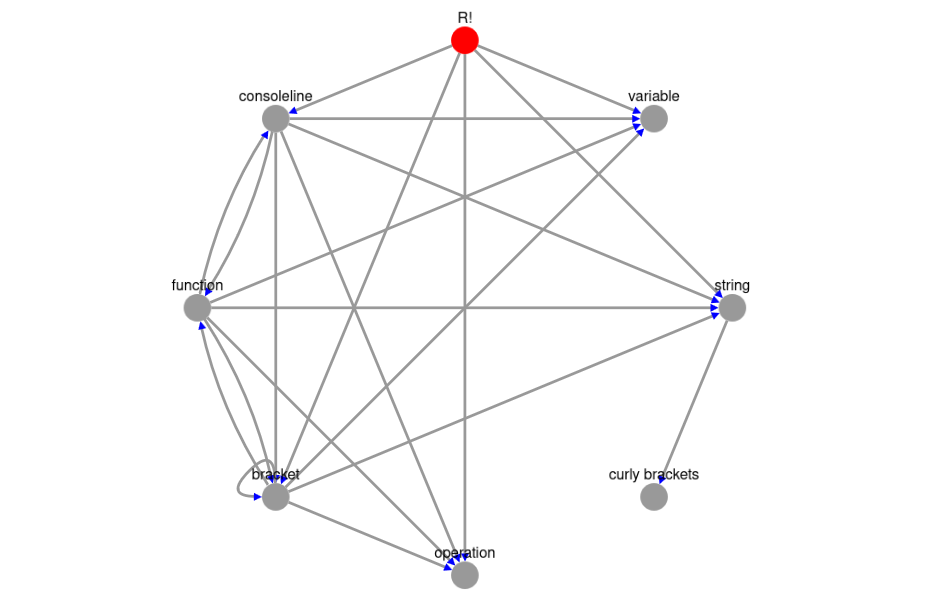
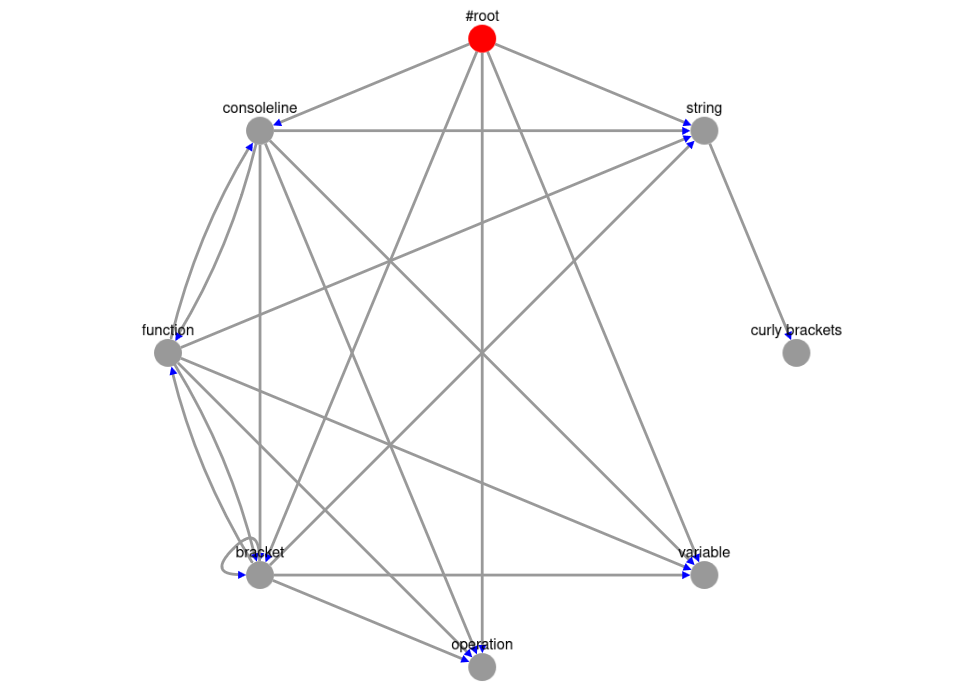
Initial commit

diff --git a/src/syntax_parser_skeleton/example.py b/src/syntax_parser_skeleton/example.py
@@ -4,7 +4,7 @@ import baseobjekts
 from derivatives import simpleregex
 import visualisation
 
-root = baseobjekts.Root("R!")
+root = baseobjekts.Root("#root")
 
 _bracket = simpleregex.SimpleRegexPhrase(compile('\\('), compile('\\)'), id="bracket").add_self()
 _funcall = simpleregex.SimpleRegexPhrase(compile('\\w+\\s*\\('), compile('\\)'), id="function")

diff --git a/README.rst b/README.rst
@@ -134,139 +134,139 @@ Example
     xml
 
     <?xml version="1.0" ?>
-    <RB phrase="R!">
+    <RB phrase="#root">
         <RN coord="0:0:0/0:0">''</RN>
         <B phrase="consoleline">
             <N coord="0:0:3/0:3">'&gt;&gt;&gt;'</N>
-            <L coord="0:3:4/3:4">' '</L>
+            <T coord="0:3:4/3:4">' '</T>
             <B phrase="function">
                 <N coord="0:4:16/4:16">'prettyprint('</N>
                 <B phrase="string">
                     <N coord="0:16:17/16:17">&quot;'&quot;</N>
-                    <L coord="0:17:66/17:66">'( (a * b / (c   a)) * (b / (c – a) * b) / c )   a'</L>
+                    <T coord="0:17:66/17:66">'( (a * b / (c + a)) * (b / (c – a) * b) / c ) + a'</T>
                     <N coord="0:66:67/66:67">&quot;'&quot;</N>
                 </B>
                 <N coord="0:67:68/67:68">')'</N>
             </B>
             <N coord="0:68:68/68:68">''</N>
         </B>
-        <RL coord="0:68:69/68:69">'\n'</RL>
+        <RT coord="0:68:69/68:69">'\n'</RT>
         <B phrase="bracket">
             <N coord="1:0:1/69:70">'('</N>
-            <L coord="1:1:2/70:71">'\n'</L>
-            <L coord="2:0:3/71:74">'   '</L>
+            <T coord="1:1:2/70:71">'\n'</T>
+            <T coord="2:0:3/71:74">'   '</T>
             <B phrase="bracket">
                 <N coord="2:3:4/74:75">'('</N>
-                <L coord="2:4:5/75:76">'\n'</L>
-                <L coord="3:0:7/76:83">'       '</L>
+                <T coord="2:4:5/75:76">'\n'</T>
+                <T coord="3:0:7/76:83">'       '</T>
                 <B phrase="variable">
                     <N coord="3:7:8/83:84">'a'</N>
                     <N coord="3:8:8/84:84">''</N>
                 </B>
-                <L coord="3:8:9/84:85">' '</L>
+                <T coord="3:8:9/84:85">' '</T>
                 <B phrase="operation">
                     <N coord="3:9:10/85:86">'*'</N>
                     <N coord="3:10:10/86:86">''</N>
                 </B>
-                <L coord="3:10:11/86:87">' '</L>
+                <T coord="3:10:11/86:87">' '</T>
                 <B phrase="variable">
                     <N coord="3:11:12/87:88">'b'</N>
                     <N coord="3:12:12/88:88">''</N>
                 </B>
-                <L coord="3:12:13/88:89">' '</L>
+                <T coord="3:12:13/88:89">' '</T>
                 <B phrase="operation">
                     <N coord="3:13:14/89:90">'/'</N>
                     <N coord="3:14:14/90:90">''</N>
                 </B>
-                <L coord="3:14:15/90:91">' '</L>
+                <T coord="3:14:15/90:91">' '</T>
                 <B phrase="bracket">
                     <N coord="3:15:16/91:92">'('</N>
                     <B phrase="variable">
                         <N coord="3:16:17/92:93">'c'</N>
                         <N coord="3:17:17/93:93">''</N>
                     </B>
-                    <L coord="3:17:18/93:94">' '</L>
+                    <T coord="3:17:18/93:94">' '</T>
                     <B phrase="operation">
-                        <N coord="3:18:19/94:95">' '</N>
+                        <N coord="3:18:19/94:95">'+'</N>
                         <N coord="3:19:19/95:95">''</N>
                     </B>
-                    <L coord="3:19:20/95:96">' '</L>
+                    <T coord="3:19:20/95:96">' '</T>
                     <B phrase="variable">
                         <N coord="3:20:21/96:97">'a'</N>
                         <N coord="3:21:21/97:97">''</N>
                     </B>
                     <N coord="3:21:22/97:98">')'</N>
                 </B>
-                <L coord="3:22:23/98:99">'\n'</L>
-                <L coord="4:0:3/99:102">'   '</L>
+                <T coord="3:22:23/98:99">'\n'</T>
+                <T coord="4:0:3/99:102">'   '</T>
                 <N coord="4:3:4/102:103">')'</N>
             </B>
-            <L coord="4:4:5/103:104">' '</L>
+            <T coord="4:4:5/103:104">' '</T>
             <B phrase="operation">
                 <N coord="4:5:6/104:105">'*'</N>
                 <N coord="4:6:6/105:105">''</N>
             </B>
-            <L coord="4:6:7/105:106">' '</L>
+            <T coord="4:6:7/105:106">' '</T>
             <B phrase="bracket">
                 <N coord="4:7:8/106:107">'('</N>
-                <L coord="4:8:9/107:108">'\n'</L>
-                <L coord="5:0:7/108:115">'       '</L>
+                <T coord="4:8:9/107:108">'\n'</T>
+                <T coord="5:0:7/108:115">'       '</T>
                 <B phrase="variable">
                     <N coord="5:7:8/115:116">'b'</N>
                     <N coord="5:8:8/116:116">''</N>
                 </B>
-                <L coord="5:8:9/116:117">' '</L>
+                <T coord="5:8:9/116:117">' '</T>
                 <B phrase="operation">
                     <N coord="5:9:10/117:118">'/'</N>
                     <N coord="5:10:10/118:118">''</N>
                 </B>
-                <L coord="5:10:11/118:119">' '</L>
+                <T coord="5:10:11/118:119">' '</T>
                 <B phrase="bracket">
                     <N coord="5:11:12/119:120">'('</N>
                     <B phrase="variable">
                         <N coord="5:12:13/120:121">'c'</N>
                         <N coord="5:13:13/121:121">''</N>
                     </B>
-                    <L coord="5:13:16/121:124">' – '</L>
+                    <T coord="5:13:16/121:124">' – '</T>
                     <B phrase="variable">
                         <N coord="5:16:17/124:125">'a'</N>
                         <N coord="5:17:17/125:125">''</N>
                     </B>
                     <N coord="5:17:18/125:126">')'</N>
                 </B>
-                <L coord="5:18:19/126:127">' '</L>
+                <T coord="5:18:19/126:127">' '</T>
                 <B phrase="operation">
                     <N coord="5:19:20/127:128">'*'</N>
                     <N coord="5:20:20/128:128">''</N>
                 </B>
-                <L coord="5:20:21/128:129">' '</L>
+                <T coord="5:20:21/128:129">' '</T>
                 <B phrase="variable">
                     <N coord="5:21:22/129:130">'b'</N>
                     <N coord="5:22:22/130:130">''</N>
                 </B>
-                <L coord="5:22:23/130:131">'\n'</L>
-                <L coord="6:0:3/131:134">'   '</L>
+                <T coord="5:22:23/130:131">'\n'</T>
+                <T coord="6:0:3/131:134">'   '</T>
                 <N coord="6:3:4/134:135">')'</N>
             </B>
-            <L coord="6:4:5/135:136">' '</L>
+            <T coord="6:4:5/135:136">' '</T>
             <B phrase="operation">
                 <N coord="6:5:6/136:137">'/'</N>
                 <N coord="6:6:6/137:137">''</N>
             </B>
-            <L coord="6:6:7/137:138">' '</L>
+            <T coord="6:6:7/137:138">' '</T>
             <B phrase="variable">
                 <N coord="6:7:8/138:139">'c'</N>
                 <N coord="6:8:8/139:139">''</N>
             </B>
-            <L coord="6:8:10/139:141">' \n'</L>
+            <T coord="6:8:10/139:141">' \n'</T>
             <N coord="7:0:1/141:142">')'</N>
         </B>
-        <RL coord="7:1:2/142:143">' '</RL>
+        <RT coord="7:1:2/142:143">' '</RT>
         <B phrase="operation">
-            <N coord="7:2:3/143:144">' '</N>
+            <N coord="7:2:3/143:144">'+'</N>
             <N coord="7:3:3/144:144">''</N>
         </B>
-        <RL coord="7:3:4/144:145">' '</RL>
+        <RT coord="7:3:4/144:145">' '</RT>
         <B phrase="variable">
             <N coord="7:4:5/145:146">'a'</N>
         </B>
